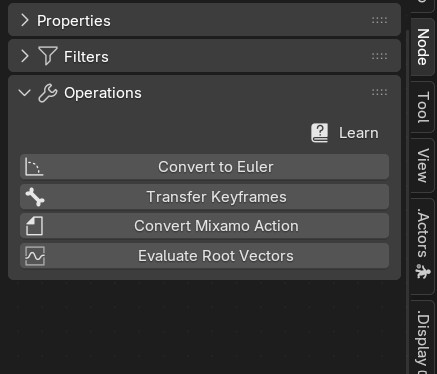
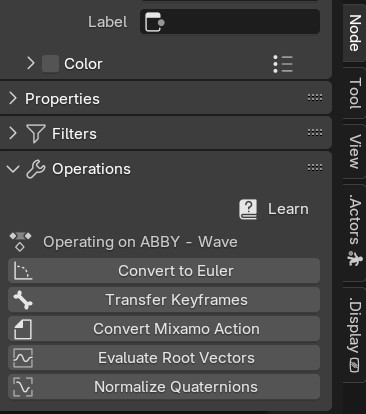
updates, axis example images

diff --git a/index.rst b/index.rst
@@ -80,8 +80,10 @@ Actors provide a convenient way to select objects and edit action on the correct
 If the assigned action is of the object or armature animation type, a root fcurve group can be set. When there are multiple actors, each Action Blocks node group will remember the last active actor.
 Actors are used to pre-fill operators such as Edit, Convert Root to Euler, Mixamo conversion and Transfer Keyframes.
 
-* **Edit With Root Offsets** , When enabled with Root Motion, when clicking Edit Action, the Actor will be oriented at the beginning of the block's last calculated root motion coordinates. And auxiliary root empty object is created and linked to on a constraint on the root object/bone."
-* **Pose Bones** , Pose bones are important bones for a gait cycle for functions including Pose Matching and Slide Removal. For FK rigs, upper leg/thighs for slide removal, and additionally arm rotations and lower legs are recommend for Pose Match. IK limbs are best associated with control bone locations.
+* **Enabled constraint**, Displayed when there is a defined root. Toggle to enable/disable the root auxiliary constraint which previews a source action in the root motion postion.
+* **Import ABBY DEMO**, append the ABBY demo scene containing tutorials and the ABBY rigged character.
+* **Edit With Root Offsets** , When enabled with Root Motion, when clicking Edit Action, the Actor will be oriented at the beginning of the block's last calculated root motion coordinates. And auxiliary root empty object is created and linked to on a constraint on the root object/bone.
+* **Pose Bones** , Pose bones are important bones for a gait cycle for functions including Pose Matching and Slide Removal. For FK rigs, upper leg/thighs for slide removal, and additionally arm rotations and lower legs are recommended for Pose Match. IK limbs are best associated with control bone locations.
 
 
 Root Motion
@@ -103,7 +105,28 @@ Root motion is the accumulated position and rotation of an actor's root position
 * **Location/Rotation**, The axis which will be used for root motion. For objects, typically X,Y should be enabled for location and optionally Z for vertical climbs. Rotation is typically set to only the Z axis. For Bones. X and Z  with optionally Y. Rotation is usually on the Y axis. 
   **Note:** These options should match the root's final local coordinate even if the parent or armature is rotated 90 degrees.
 * **Vertical Axis**, objects will typically use +Z up in world space with the exception of cameras which have +Y up. In pose pace bones are also +Y up. Bones transforms are relative to parents and therefore have their own rotation matrices and can differ depending on rigging convention and source of armature. For example a root bone sourced from another software may be forward facing rather than vertical when imported. Used for root motion offsets.
-* **Forward Direction** , The typical facing direction for the actor. Used for root motion offsets.
+* **Forward Direction** , The typical facing direction for the actor. Used for root motion offsets. For bones the result is Bone +Y direction in World space. I.e a root bone with its tail pointing -Y in world space should be -Y, assuming this is also the characters preferred facing direction'.
+
+Common Axis Settings
+~~~~~~~~~~~~~~~~~~~~
+
+**Y Up, Y Forwards**
+
+.. image:: Yup+Zto+Y.JPG
+
+**Y Up, -Y Forwards**
+
+.. image:: Yup-Zto+Y.JPG
+
+**Z Up, Y Forwards**
+
+.. image:: Zup+Yto+Y.JPG
+
+**Z Up, -Y Forwards**
+
+.. image:: Zup-Yto+Y.JPG
+
+
 
 Create Root Bone
 ~~~~~~~~~~~~~~~~~
@@ -238,6 +261,18 @@ Evaluate Root Vectors
 
 Ensures that root keyframes are complete 3D vectors, for example a location x keyframe is always paired with location y and z keyframes. This makes root motion more deterministic and avoids undesired calculations.
 
+Normalize Quaternions
+``````````````````````
+
+*Destructive operation, making a copy is recommended*
+
+Ensures that quaternion values are limited to a range of -1.0 to +1.0 by normalizing them. While it is possible to make values excceding this range directly in an object's transform properties or in the Graph Editor,
+values beyond this range are invalid and can make transitons between actions too steep as the difference between the values is too great to interpolate smoothly. Its recommended to  only edit quaternions using the Euler interface of 3D gizmos or hotkeys.
+**Important:** Quaternion animations should be always contain all four axis WXYZ per keyframe.
+
+* **Slot** , The slot within the node assigned Action to be evaluated.
+* **Object** , The object that uses this Action that will be used to calculate new rotations.
+
 Channel Filters
 ~~~~~~~~~~~~~~~
 
@@ -290,6 +325,7 @@ Create root motion paths using a root filter group.
 * **Start Repeat** , The action's Repeat count to start the offset on.
 * **End Repeat**, The action's Repeat count to end the offset on.
 * **Target** , Optionally use a target objects coordinates for the offset location.
+* **Predict Following Target**, Rotates the Actor toward the next detected target, use the ease time to ease rotation toward the target at the end of the block.
 * **+ Rotation** , Manual rotation offset in degrees.
 * **+ Location** , Manual location offset in meters. **Note:** this may be scaled by the owner scale or parent object. Eg. And armature scaled at 0.01 xyz will make these values 0.01 smaller than world space coordinates.
 
@@ -300,6 +336,8 @@ Mix Node
 
 Tip: To layer animations, its best to leave channels free for input 2. For example, when combining walking (action1) with a head turn(action2), only have keyframes available for the neck in action1 and only have neck keyframes in action2. 
 This can be done via Action Filters. The Mix blend mode requires the most calculation and should be use sparingly to avoid slowdown.
+
+**NOTE**: Blending and mixing on the Root channels is skipped unless 'Allow Blending on Root' in enabled in Right Panel ->Node->Properties
 
 * **Modes** 
 * * **Combine**  ,Use keyframes from both inputs, input 2 will fill any missing frames from input1. . 
